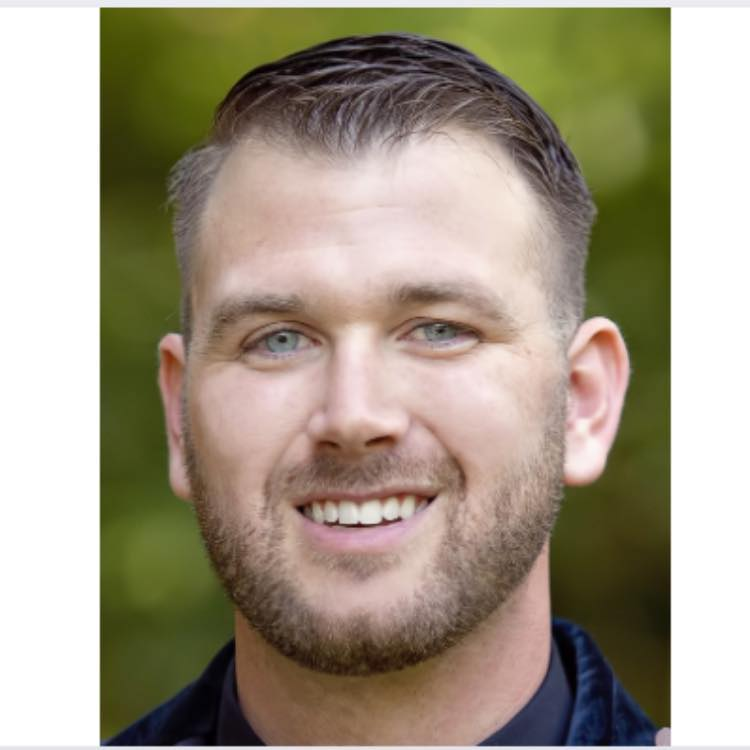
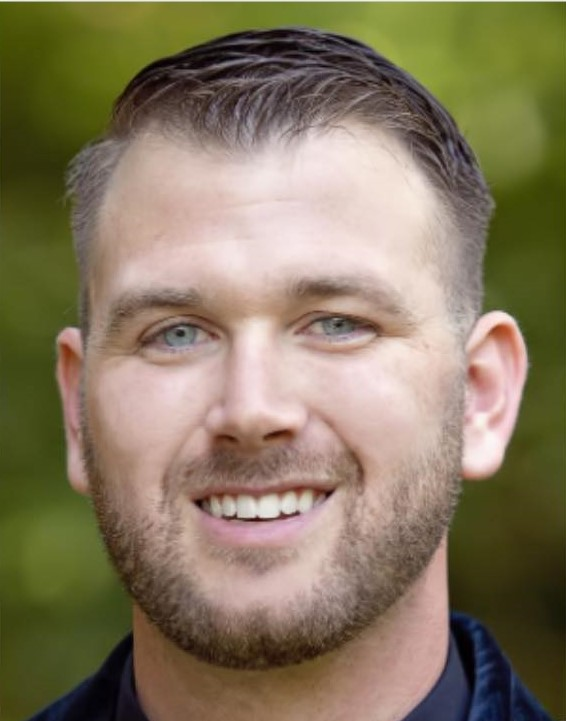
Crop headshot and add to page

diff --git a/about.html b/about.html
@@ -19,7 +19,11 @@
 <body>
     <div id="header-container"></div>
     <div id="main-body">
-        <div id="content"></div>
+        <div id="content">
+            <div class="float-right">
+                <img src="headshot.jpg" class="float-right"/>
+            </div>
+        </div>
     </div>
     <div id="footer-container"></div>
 </body>
